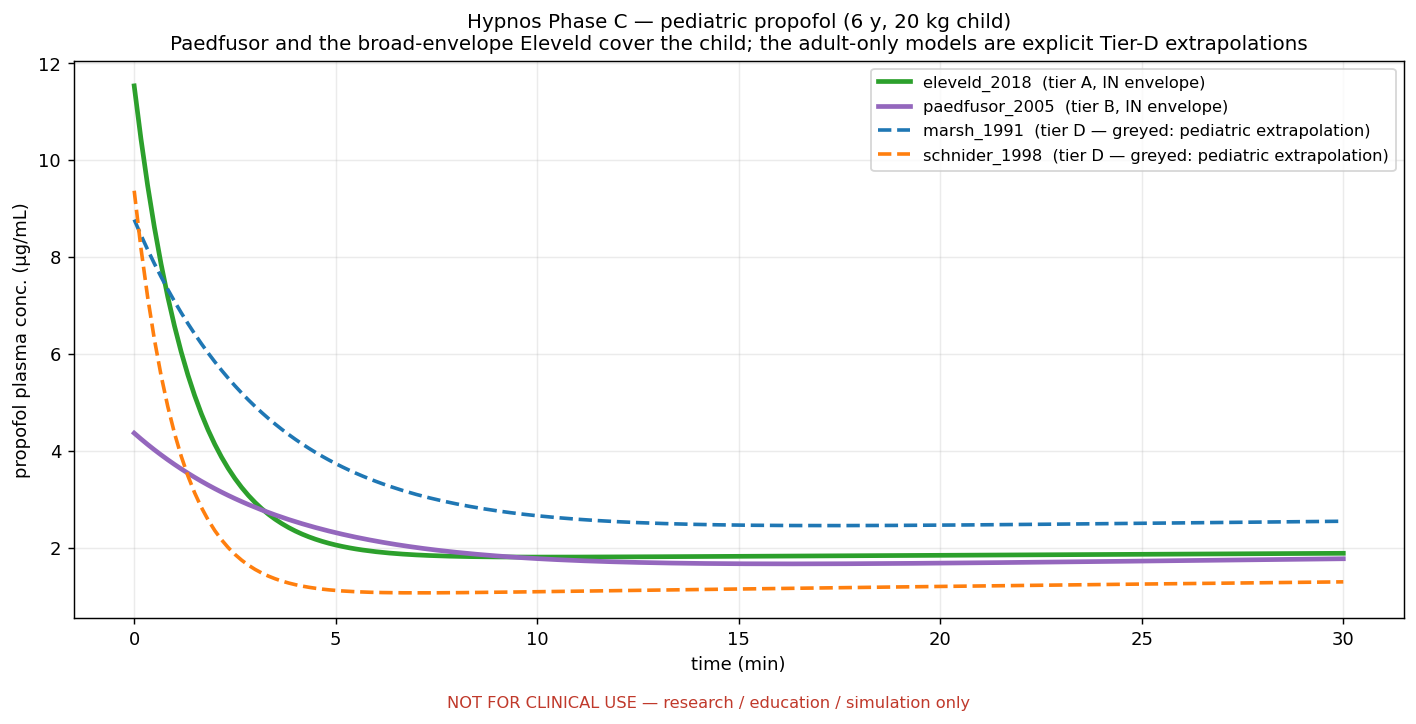
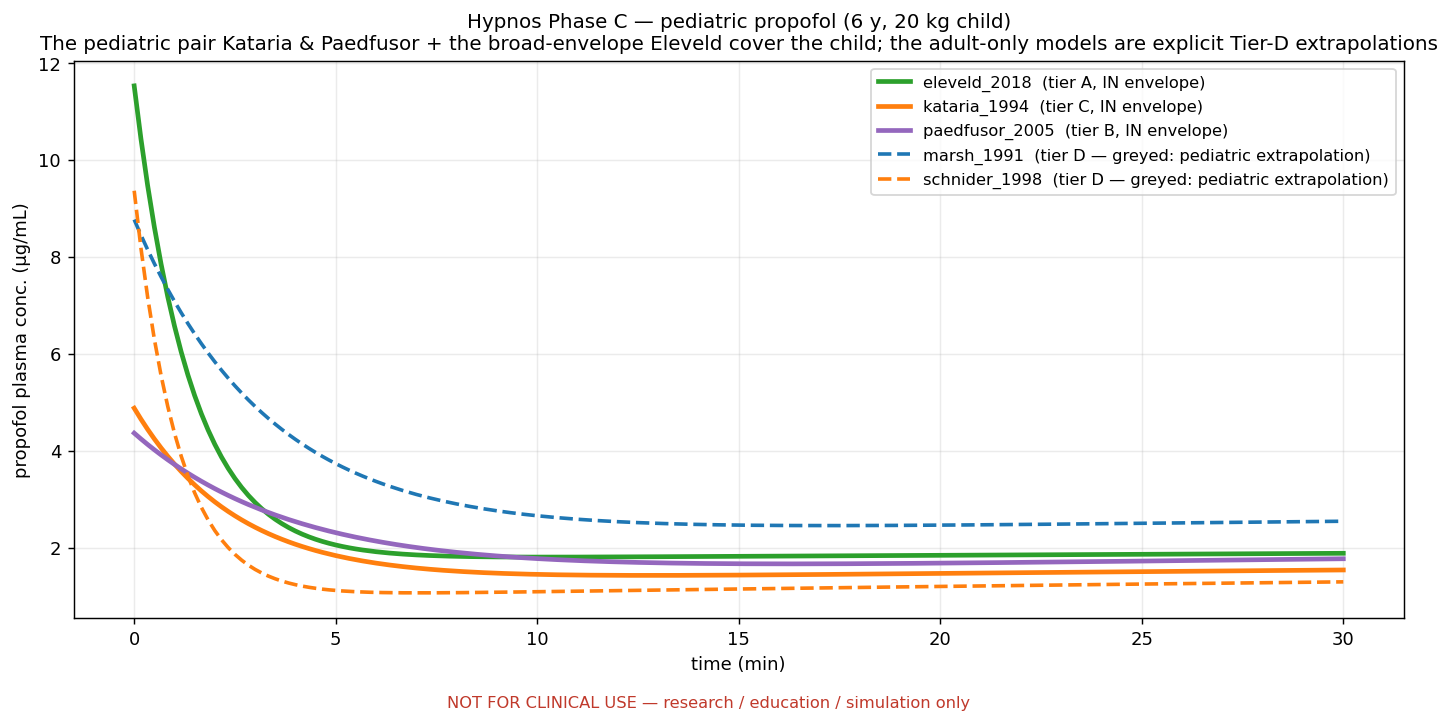
Add Kataria 1994 pediatric propofol — a live Kataria-vs-Paedfusor divergence
Completes the spec's named pediatric pair (Kataria/Paedfusor, §1). Until now a
child had only Paedfusor + the broad Eleveld; the pediatric model-divergence view
— the headline feature applied to children — had no second pediatric model to
diverge against. Kataria is the canonical one the literature compares head-to-head
with Paedfusor.

- `propofol_kataria_1994` executable kernel: weight-proportional volumes/clearances
  with the distinctive age term on V2 (0.78*WGT + 3.1*AGE - 16); PK-only (no
  published ke0). Transcribed from the standard published set (same STANPUMP/Shafer
  lineage as Minto — Shafer co-authored Kataria), checked to reproduce the 23 kg /
  7 y reference child (V1 9.43 L, V2 23.64 L). Tier C; review_status unverified
  pending human PDF confirmation of the V2 age term.
- For a child the view now compares Kataria vs Paedfusor vs Eleveld on plasma:
  Kataria and Paedfusor are both in-envelope yet peak at 4.88 vs 4.36 ug/mL — the
  "Kataria vs Paedfusor" question made measurable. pediatric.png regenerates to show
  all three; the adult-only Marsh/Schnider stay greyed as extrapolations.

Distinct from the deferred fentanyl/alfentanil: those have contested parameter sets;
Kataria's are consistent across the quality literature, exactly like Paedfusor's
(which the project already ships as a transcribed, unverified pediatric kernel).

19 models · 17 kernels. New citation kataria-1994-propofol-pediatric. Tests (+3):
[…]

diff --git a/python/tests/test_breadth_pediatric.py b/python/tests/test_breadth_pediatric.py
@@ -5,6 +5,7 @@ import hypnos
 
 DEX = "alpha2_agonists.dexmedetomidine.hannivoort_2015"
 PAEDFUSOR = "hypnotics_iv.propofol.paedfusor_2005"
+KATARIA = "hypnotics_iv.propofol.kataria_1994"
 SCHNIDER = "hypnotics_iv.propofol.schnider_1998"
 MARSH = "hypnotics_iv.propofol.marsh_1991"
 ELEVELD = "hypnotics_iv.propofol.eleveld_2018"
@@ -45,6 +46,36 @@ def test_paedfusor_pediatric_bolus(ds):
     assert res.tier == "B"
     assert res.warnings == []
     assert abs(res.cp[0] - 40.0 / (0.4584 * 20)) < 1e-6
+
+
+def test_kataria_reference_child_parameters(ds):
+    # the kernel reproduces the standard published Kataria parameters at a 23 kg, 7 y
+    # reference child: V1 = 0.41*23 = 9.43 L, V2 = 0.78*23 + 3.1*7 - 16 = 23.64 L
+    from hypnos.export.registry import propofol_kataria_1994
+    p = propofol_kataria_1994(dict(age=7, weight=23))
+    assert abs(p.V1 - 9.43) < 1e-9
+    assert abs(p.derived["V2"] - 23.64) < 1e-9
+    assert p.ke0 == 0.0          # PK-only (no published ke0)
+
+
+def test_kataria_paedfusor_diverge_for_a_child(ds):
+    # the named pediatric pair: both in-envelope for a child, but they disagree on
+    # plasma — exactly the "Kataria vs Paedfusor" question the literature asks.
+    child = dict(age=7, weight=23, height=122, sex="M")
+    cmp = hypnos.compare(ds, drug="propofol", patient=child, schedule=PED_SCHED, t=T)
+    included = {r.model_id for r in cmp.included}
+    assert KATARIA in included and PAEDFUSOR in included
+    kat = next(r for r in cmp.included if r.model_id == KATARIA)
+    pae = next(r for r in cmp.included if r.model_id == PAEDFUSOR)
+    assert abs(kat.cp_peak - pae.cp_peak) > 0.1     # a real, measurable divergence
+    assert cmp.divergence["cp"]["max_rel"] > 0      # plasma spread is reported
+
+
+def test_kataria_in_adult_is_extrapolation(ds):
+    res = hypnos.simulate(ds, KATARIA, patient=ADULT, schedule=PED_SCHED, t=T)
+    assert res.tier == "D"
+    assert res.excluded
+    assert any("EXTRAPOLATION" in w for w in res.warnings)
 
 
 def test_adult_model_in_child_is_pediatric_extrapolation(ds):

diff --git a/python/hypnos/export/registry.py b/python/hypnos/export/registry.py
@@ -113,6 +113,32 @@ def propofol_paedfusor_2005(patient: dict) -> MicroParams:
 
 
 # --------------------------------------------------------------------------- #
+# Propofol — Kataria (1994): pediatric, weight-proportional with an age term on V2
+# --------------------------------------------------------------------------- #
+def propofol_kataria_1994(patient: dict) -> MicroParams:
+    """Kataria 1994 pediatric propofol PK model (children 3-11 y).
+
+    The canonical pediatric counterpart that the literature compares head-to-head
+    with Paedfusor. Weight-proportional volumes/clearances with the distinctive
+    age term on V2. Transcribed from the standard published parameter set (same
+    STANPUMP/Shafer lineage as Minto); PK-only (no published ke0). The model
+    record's ``review_status`` remains ``unverified`` pending human PDF confirmation
+    of every covariate equation, especially the V2 age term.
+    """
+    wgt = _req(patient, "weight")
+    age = _req(patient, "age")
+    V1 = 0.41 * wgt
+    V2 = 0.78 * wgt + 3.1 * age - 16.0
+    V3 = 6.9 * wgt
+    Cl1 = 0.035 * wgt
+    Cl2 = 0.077 * wgt
+    Cl3 = 0.026 * wgt
+    return MicroParams.from_volumes_clearances(
+        V1=V1, Cl1=Cl1, V2=V2, Cl2=Cl2, V3=V3, Cl3=Cl3, ke0=0.0
+    )
+
+
+# --------------------------------------------------------------------------- #
 # Dexmedetomidine — Hannivoort (2015): allometric three-compartment
 # --------------------------------------------------------------------------- #
 def dexmedetomidine_hannivoort_2015(patient: dict) -> MicroParams:
@@ -296,6 +322,7 @@ KERNELS: Dict[str, KernelFn] = {
     "propofol_marsh_1991": propofol_marsh_1991,
     "propofol_schnider_1998": propofol_schnider_1998,
     "propofol_paedfusor_2005": propofol_paedfusor_2005,
+    "propofol_kataria_1994": propofol_kataria_1994,
     "propofol_eleveld_2018": propofol_eleveld_2018,
     "remifentanil_minto_1997": remifentanil_minto_1997,
     "remifentanil_eleveld_2017": remifentanil_eleveld_2017,

diff --git a/scripts/regenerate.py b/scripts/regenerate.py
@@ -35,7 +35,7 @@ IMAGES = ROOT / "docs" / "images"
 # Stable per-model colours so a model keeps its colour across figures.
 _COLORS = {
     "eleveld_2018": "#2ca02c", "marsh_1991": "#1f77b4", "schnider_1998": "#d62728",
-    "paedfusor_2005": "#9467bd",
+    "paedfusor_2005": "#9467bd", "kataria_1994": "#ff7f0e",
 }
 _DISCLAIMER = "NOT FOR CLINICAL USE"
 
@@ -160,8 +160,8 @@ def _fig_pediatric(ds, plt) -> None:
         ax.plot(t, e["result"].cp, lw=2, ls="--",
                 label=f"{name}  (tier {e['tier']} — greyed: {tag})")
     ax.set_title("Hypnos Phase C — pediatric propofol (6 y, 20 kg child)\n"
-                 "Paedfusor and the broad-envelope Eleveld cover the child; the adult-only "
-                 "models are explicit Tier-D extrapolations", fontsize=11)
+                 "The pediatric pair Kataria & Paedfusor + the broad-envelope Eleveld cover the "
+                 "child; the adult-only models are explicit Tier-D extrapolations", fontsize=11)
     ax.set_xlabel("time (min)"); ax.set_ylabel("propofol plasma conc. (µg/mL)")
     ax.legend(fontsize=9); ax.grid(alpha=0.25)
     fig.text(0.5, -0.02, f"{_DISCLAIMER} — research / education / simulation only",

diff --git a/README.md b/README.md
@@ -81,13 +81,14 @@ Phase C widens coverage beyond the propofol/remifentanil core — a new drug cla
 
 ![Pediatric propofol model divergence](docs/images/pediatric.png)
 
-For a 6-year-old, 20 kg child, **two** models are in-envelope and they tell a clean story: the dedicated pediatric **Paedfusor** (Tier B), and the broad-envelope general-purpose **Eleveld** (Tier A), which is built to span neonate→elderly and so correctly *covers the child by design* — the payoff of a wide derivation envelope. The two adult-only models, **Marsh and Schnider**, are greyed out and explicitly labeled *pediatric extrapolations*: an adult model used in a child is not predictive, so it is floored to Tier D. The labeling is symmetric: Paedfusor used in an adult is flagged as a pediatric-model extrapolation, and a 90-year-old outside dexmedetomidine's 18–70 y range is labeled a *geriatric extrapolation*.
+For a 6-year-old, 20 kg child, **three** models are in-envelope: the canonical pediatric pair **Kataria** (Tier C) and **Paedfusor** (Tier B) — the two models the pediatric-TCI literature routinely compares head-to-head ("Kataria vs Paedfusor") — plus the broad-envelope general-purpose **Eleveld** (Tier A), built to span neonate→elderly and so correctly *covering the child by design*. The two adult-only models, **Marsh and Schnider**, are greyed out and explicitly labeled *pediatric extrapolations*: an adult model used in a child is not predictive, so it is floored to Tier D. The labeling is symmetric: any pediatric model (Kataria, Paedfusor) used in an adult is flagged as a pediatric-model extrapolation, and a 90-year-old outside dexmedetomidine's 18–70 y range is labeled a *geriatric extrapolation*. Kataria and Paedfusor are both in-envelope yet disagree on plasma (peaks 4.88 vs 4.36 µg/mL here) — making the pediatric model-selection question measurable, the headline feature applied to children.
 
 ```text
 $ hypnos compare --drug propofol --age 6 --weight 20 --height 115 --sex M
-included (2):
+included (3):
   - hypnotics_iv.propofol.eleveld_2018         tier A  Ce peak 2.474 ug/mL   # broad envelope covers the child
-  - hypnotics_iv.propofol.paedfusor_2005       tier B  Cp peak 4.363 ug/mL   # dedicated pediatric model
+  - hypnotics_iv.propofol.kataria_1994         tier C  Cp peak 4.878 ug/mL   # canonical pediatric model
+  - hypnotics_iv.propofol.paedfusor_2005       tier B  Cp peak 4.363 ug/mL   # the other half of the pair
 excluded for envelope (2):
   - hypnotics_iv.propofol.marsh_1991      tier D  (... PEDIATRIC EXTRAPOLATION: age 6 y is below the
         model's derivation range (>= 16 y); an adult model used in a child is not predictive -> Tier D)
@@ -312,7 +313,7 @@ python scripts/regenerate.py                                  # regenerate every
 
 ## Current coverage (v0.1.0 — A/B complete · C/D/E core)
 
-Honest status. A is the propofol spine; B adds the dominant opioid and the interaction surface; C widens to a new drug class and pediatrics; D brings in the non-IV families; E hardens for release (COMBINE `.omex`, BibTeX, reproducibility, verified MDPE/MDAPE) ([roadmap](docs/specs/v0.1/spec.md#11-phased-roadmap)). **18 models · 9 drugs · 7 subsystems · 16 executable kernels · 9 export formats.**
+Honest status. A is the propofol spine; B adds the dominant opioid and the interaction surface; C widens to a new drug class and pediatrics; D brings in the non-IV families; E hardens for release (COMBINE `.omex`, BibTeX, reproducibility, verified MDPE/MDAPE) ([roadmap](docs/specs/v0.1/spec.md#11-phased-roadmap)). **19 models · 9 drugs · 7 subsystems · 17 executable kernels · 9 export formats.**
 
 | Model | Record | Kernel | Tier | Notes |
 | --- | --- | --- | --- | --- |
@@ -320,6 +321,7 @@ Honest status. A is the propofol spine; B adds the dominant opioid and the inter
 | Propofol PK — **Schnider 1998** | ✅ | ✅ executable | B | Age/weight/height/James-LBM; high-BMI failure mode encoded. |
 | Propofol PK — **Eleveld 2018** | ✅ | ✅ executable | A | General-purpose, broad envelope (neonate→obese elderly). Kernel transcribed from the published equations (cross-checked vs the `tci` R package), validated to reproduce the reference individual exactly; `review_status` stays **`unverified`** pending human PDF confirmation. |
 | Propofol PK — **Paedfusor 2005** | ✅ | ✅ executable | B | Pediatric (1–12 y); the Tier-D extrapolation showcase, in both directions. |
+| Propofol PK — **Kataria 1994** | ✅ | ✅ executable | C | Pediatric (3–11 y, n=53); the canonical "Kataria vs Paedfusor" pair. Weight-proportional with an age term on V2; PK-only. Transcribed from the standard published set (Shafer/STANPUMP lineage); `unverified`. |
 | Propofol PD — **BIS sigmoid** | ✅ | ✅ executable | C | Single-slope effect-site → BIS; composes onto any PK model and floors the tier to C. |
 | Propofol PD — **Eleveld two-slope BIS** | ✅ | ✅ executable | B | Validated PD companion to the Eleveld PK kernel; asymmetric Hill (γ=1.47 below Ce50, 1.89 above), age-corrected Ce50. A fully-Eleveld PK-PD BIS trajectory. |
 | Remifentanil PK — **Minto 1997** | ✅ | ✅ executable | B | Age + James-LBM; shares the high-BMI LBM failure mode; reported in ng/mL (the opioid convention). |
@@ -452,7 +454,7 @@ hypnos.validate_dataset(ds)                                           # -> list 
 | --- | --- | --- |
 | **A — Propofol spine** | Marsh/Schnider/Eleveld PK + `ke0` + propofol→BIS; reference kernels; NONMEM/PharmML/SBML/TCI-JSON; round-trip validation; divergence view | ✅ complete (Marsh + Schnider + Eleveld all executable; 3-way divergence view live) |
 | **B — Opioids + interaction** | remifentanil (Minto, Eleveld, Kim); propofol–remifentanil response surface; nlmixr2/rxode2 + Pumas export | ✅ complete (Minto + Eleveld + Kim all executable; propofol×remifentanil Greco surface; R + Julia export round-tripped) |
-| **C — Breadth** | dexmedetomidine, ketamine, midazolam, fentanyl family; pediatric models with explicit Tier-D labeling | ✅ core shipped (dexmedetomidine + Paedfusor executable with explicit pediatric/geriatric extrapolation labeling; fentanyl curated, kernel pending; ketamine/midazolam roadmap) |
+| **C — Breadth** | dexmedetomidine, ketamine, midazolam, fentanyl family; pediatric models with explicit Tier-D labeling | ✅ core shipped (dexmedetomidine + the pediatric pair Kataria & Paedfusor executable with explicit pediatric/geriatric extrapolation labeling and a live pediatric model-divergence; fentanyl curated, kernel pending; ketamine/midazolam roadmap) |
 | **D — Inhalational + NMB** | volatile MAC/partition/uptake; neuromuscular blockers + train-of-four; sugammadex reversal | ✅ core shipped (4 volatiles with MAC age-correction + additivity + solubility-driven wash-in (FA/FI) all executable; rocuronium seeded with TOF PD; rocuronium PK kernel + sugammadex binding kinetics pending) |
 | **E — Hardening** | external-validation MDPE/MDAPE backfill; COMBINE `.omex`; Zenodo DOI | ✅ core shipped (deterministic `.omex` + BibTeX exporters; `scripts/regenerate.py`; `.zenodo.json` + `CHANGELOG.md`; external-validation MDPE/MDAPE backfilled across both headline drugs + dexmedetomidine, citation-integrity-checked and surfaced via `hypnos performance`; minted DOI on first tagged release) |
 

diff --git a/CHANGELOG.md b/CHANGELOG.md
@@ -8,6 +8,26 @@ version is pinned in `dataset/VERSION` and stamped into every export as
 
 ## [Unreleased]
 
+### Kataria 1994 pediatric propofol — a live Kataria-vs-Paedfusor divergence (2026-06-09)
+- **`hypnotics_iv.propofol.kataria_1994`** executable kernel completes the spec's
+  named pediatric pair (Kataria/Paedfusor, spec §1). Weight-proportional
+  volumes/clearances with the distinctive age term on V2
+  (`V2 = 0.78·WGT + 3.1·AGE − 16`); PK-only (the 1994 disposition study published no
+  ke0). Transcribed from the standard published parameter set (same STANPUMP/Shafer
+  lineage as Minto — Shafer is a Kataria co-author) and checked to reproduce the
+  reference child (23 kg, 7 y: V1 9.43 L, V2 23.64 L). Tier C (single cohort,
+  n=53, ages 3–11 y); `review_status` **unverified** pending human PDF confirmation
+  of every covariate equation, especially the V2 age term — the field most prone to
+  transcription error, and so flagged for the verifier.
+- **Pediatric model-divergence is now live:** for a child the view compares Kataria
+  vs Paedfusor vs Eleveld on plasma — Kataria and Paedfusor are both in-envelope yet
+  peak at 4.88 vs 4.36 µg/mL, making the "Kataria vs Paedfusor" question (a standard
+  pediatric-TCI research comparison) measurable. The `pediatric.png` figure
+  regenerates to show all three.
+- 19 models · 17 executable kernels. New citation `kataria-1994-propofol-pediatric`.
+- Alfentanil/fentanyl stay deferred (contested parameterizations); Kataria differs —
+  its parameters are consistent across the quality literature, like Paedfusor's.
+
 ### Accuracy in the divergence view — connect performance to model-selection (2026-06-09)
 - The model-divergence view (`hypnos compare` + dashboard) now reports each
   included model's **published in-envelope MDAPE** next to its curve, so it answers
